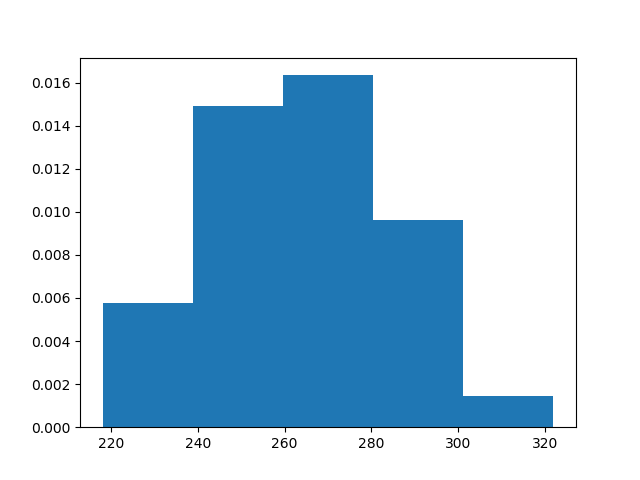
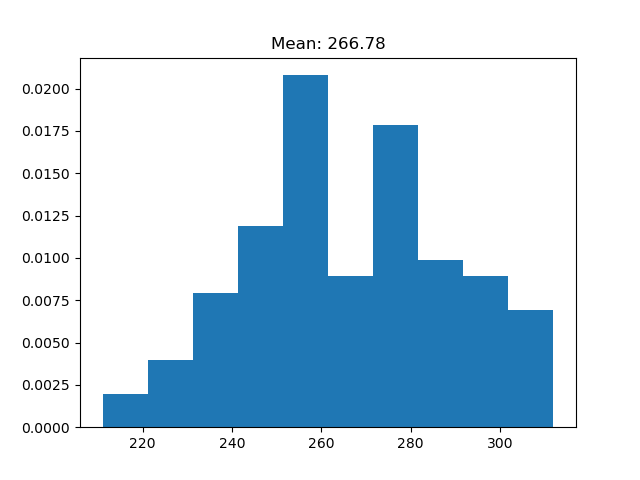
for report

diff --git a/main.py b/main.py
@@ -11,7 +11,7 @@ def conduct_test(test,visualise,should_stow=True,stowing_mean=5.0):
     print("Iteration: "+str(i+1)+"/"+str(ITERATIONS))
     game = Game(test[1](),visualise,stowing_mean)
     STEPS.append(game.play(should_stow))
-  plt.hist(STEPS,5,density=True)
+  plt.hist(STEPS,density=True)
   plt.title('Mean: '+str(sum(STEPS)/len(STEPS)))
   plt.savefig(test[0]+".png")
   plt.clf()
@@ -31,26 +31,13 @@ tests = [
 ["STEFFEN MODIFIED",steffen_modified]]
 
 basicTestHistogramData =[]
-basicTestLabels = []
 
 for test in tests:
   basicTestHistogramData.append(conduct_test(test,VISUALISE))
-  basicTestLabels.append(test[0])
 
 
-with open('data.txt', 'w') as outfile:
+with open('distribution_chart_data.txt', 'w') as outfile:
     json.dump(basicTestHistogramData, outfile)
-
-fig = plt.figure()
-ax = plt.subplot(111)
-ax.hist(basicTestHistogramData,5,density=True,label=basicTestLabels)
-box = ax.get_position()
-ax.set_position([box.x0, box.y0 + box.height * 0.1,
-                 box.width, box.height * 0.9])
-ax.legend(prop={'size': 7},loc='upper center', bbox_to_anchor=(0.5, -0.05),
-          fancybox=True, shadow=True, ncol=4)
-plt.savefig("allHistogram.png")
-plt.clf()
 
 
 no_stowing_tests = [["RANDOM NO STOWING",random_order],
@@ -64,7 +51,7 @@ for test in no_stowing_tests:
 no_shuffling_tests = [["RANDOM NO SHUFFLE",random_without_shuffle],
 ["BACK TO FRONT 4 GROUPS NO SHUFFLE",back_to_front_4_without_shuffle]]
 
-for mean in range(5,56,5):
+for mean in range(1,5):
     random_n_s = no_shuffling_tests[0].copy()
     random_n_s[0]=random_n_s[0]+" "+str(mean)
     data1=conduct_test(random_n_s,VISUALISE,True,mean)

diff --git a/distribution_chart_creator.py b/distribution_chart_creator.py
@@ -1,0 +1,23 @@
+import json
+import matplotlib.pyplot as plt
+import numpy as np
+
+DATA=None
+LABELS = ["RANDOM",
+"BACK TO FRONT",
+"FRONT TO BACK",
+"BACK TO FRONT GROUP 4",
+"FRONT TO BACK GROUP 4",
+"WINDOW MIDDLE ISLE",
+"STEFFEN PERFECT",
+"STEFFEN MODIFIED"]
+with open('distribution_chart_data.txt') as json_file:
+    DATA = json.load(json_file)
+
+for data,label in zip(DATA,LABELS):
+    plt.hist(data,alpha=0.5,label=label,density=True)
+plt.legend(prop={'size': 7},loc='upper center', bbox_to_anchor=(0.5, -0.05),
+           fancybox=True, shadow=True, ncol=4)
+plt.savefig("ALL.png")
+
+plt.clf()
